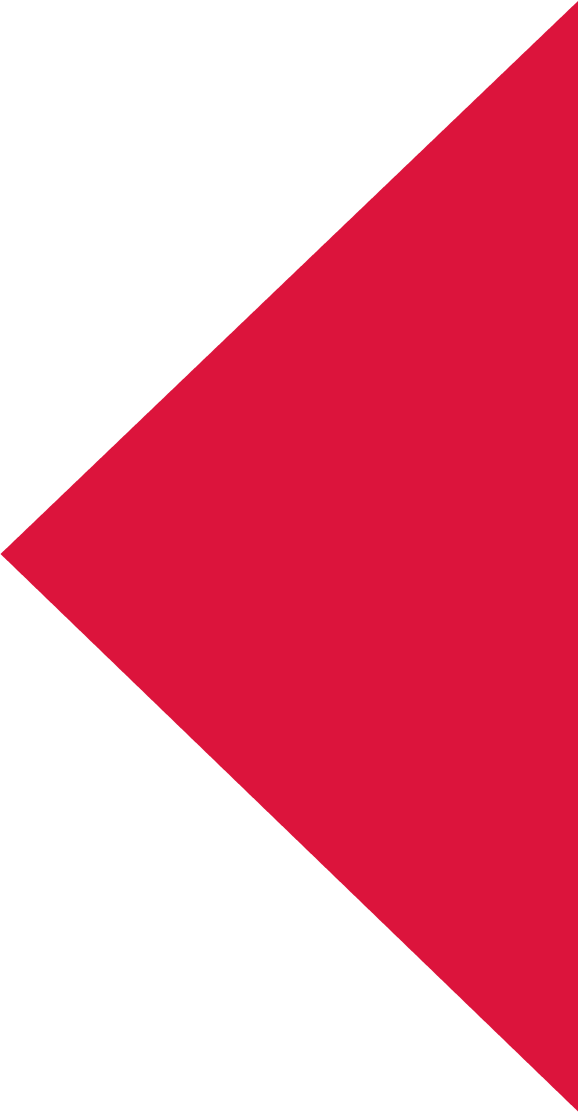
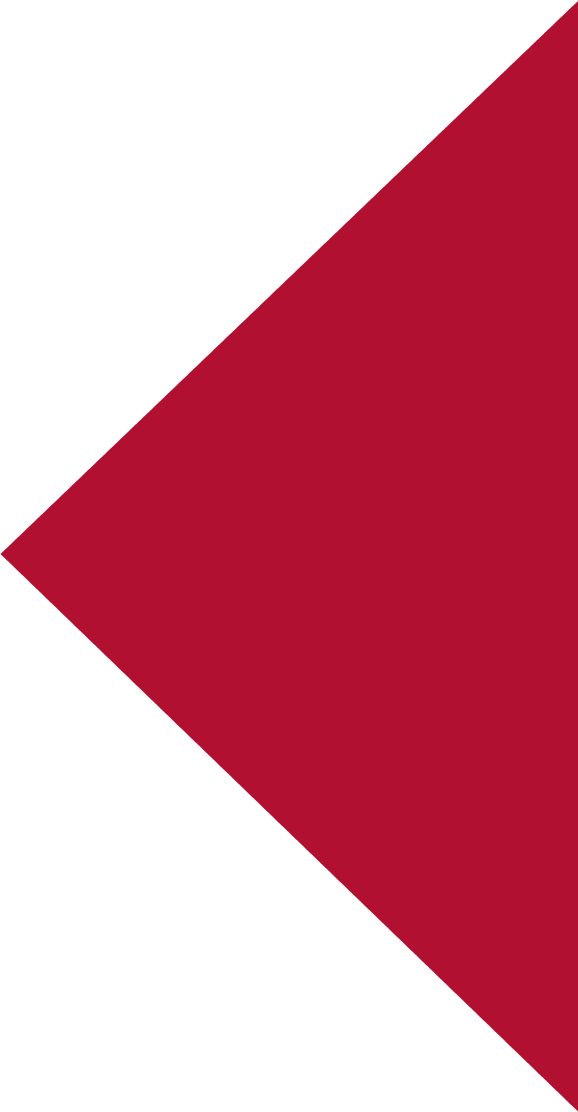
changed to darker red

diff --git a/src/pages/Services/components/ServiceCards.jsx b/src/pages/Services/components/ServiceCards.jsx
@@ -1,0 +1,40 @@
+import React from 'react'
+
+const ServiceCards = () => {
+    return (   
+      <div className="flex flex-col md:flex-row pb-12">
+        <div className="w-full">
+          <div className="services-card1 homepage-card-text lg:h-64">
+            <h2 className="homepage-card-h2">CNC Machining</h2>
+            {/* <h3 className="homepage-card-h3">
+              <span className="homepage-span">60,000+</span> Square feet under one roof
+            </h3> */}
+          </div>
+          <div className="services-card2 homepage-card-text md:border-none lg:h-64">
+            <h2 className="homepage-card-h2">Welding</h2>
+            {/* <h3 className="homepage-card-h3">
+              <span className="homepage-span">52+</span> CNC machines in operation
+            </h3> */}
+          </div>
+        </div>
+        <div className="w-full">
+          <div className="services-card3 homepage-card-text md:border-l-1 md:border-white lg:h-64">
+            <h2 className="homepage-card-h2">Sheet Metal Fabrication</h2>
+            {/* <h3 className="homepage-card-h3">
+              <span className="homepage-span">ASME</span> code stampes{" "}
+              <span className="homepage-span">ASME</span> certified
+            </h3> */}
+          </div>
+          <div className="services-card4 homepage-card-text md:border-l-1 md:border-white lg:h-64">
+            <h2 className="homepage-card-h2">Design & Assemble</h2>
+            {/* <h3 className="homepage-card-h3">
+              <span className="homepage-span">15+</span> years of ISO quality
+              certification
+            </h3> */}
+          </div>
+        </div>
+      </div>
+    );
+  };
+
+export default ServiceCards

diff --git a/src/pages/Home/components/Header.jsx b/src/pages/Home/components/Header.jsx
@@ -11,7 +11,7 @@ const Header = () => {
         <img
           src={heroImage}
           alt="Hero Image"
-          className="w-full h-full object-cover object-left top-0 left-0 z-0"
+          className="w-full h-full object-cover object-left top-0 left-0 z-0 color-red"
         />
       </div>
       <div className="absolute m-auto top-0 bottom-0 right-0 left-0 z-10">
@@ -20,8 +20,8 @@ const Header = () => {
       <div className="container">
         <div className="absolute z-0 h-52 m-auto top-0 bottom-0 right-0 left-0 flex items-center justify-center mx-auto">
           <h1 className="text-3xl sm:text-4xl md:text-5xl lg:text-5xl xl:text-6xl md:w-3/4 lg:w-3/5 w-64 sm:w-3/4 tracking-wider text-white leading-10 md:leading-12 border-y py-7">
-            Building <span className="text-red">better</span> parts, <span className="text-red">better</span> people, for a
-            <span className="text-red"> brighter</span> future
+            Building <span className="text-red font-bold">better</span> parts, <span className="text-red font-bold">better</span> people, for a
+            <span className="text-red font-bold"> brighter</span> future
           </h1>
         </div>
         <div>

diff --git a/src/components/ImageSlider.jsx b/src/components/ImageSlider.jsx
@@ -20,7 +20,7 @@ const ImageSlider = ({ slides }) => {
   }
 
   return (
-    <section className="slider mt-16 mb-24 md:mt-20 md:mb-32 lg:my-36">
+    <section className="slider mt-16 mb-20 md:mt-20 md:mb-32 lg:my-36">
       <FaAngleLeft className="left-arrow text-3xl sm:text-4xl md:text-5xl sm:left-14 md:left-16 lg:left-20 xl:left-32" onClick={prevSlide} />
       <FaAngleRight className="right-arrow text-3xl sm:text-4xl md:text-5xl sm:right-14 md:right-16 lg:right-20" onClick={nextSlide} />
       {SliderData.map((slide, index) => {
@@ -33,7 +33,7 @@ const ImageSlider = ({ slides }) => {
               key={index}
               src={slide.image}
               alt="kenney ind"
-              className="image w-64 h-44 m-auto sm:w-96 sm:h-auto md:w-2/3 lg:w-full"
+              className="image w-full h-44 m-auto sm:w-96 sm:h-auto md:w-2/3 lg:w-full"
             />)}
             
           </div>

diff --git a/src/index.css b/src/index.css
@@ -211,3 +211,45 @@ body {
   background-image: url(./assets/img/kenney2010.png);
 }
 
+/* services page */
+
+.services-card1 {
+  padding: 0;
+  margin: auto;
+  height: 180px;
+  width: 100%;
+  background-color: #B21030;
+  background-size: cover;
+  border-bottom: solid 0.5px #F5F5F5;
+}
+
+.services-card2 {
+  padding: 0;
+  margin: auto;
+  height: 180px;
+  width: 100%;
+  background-color: #B21030;
+  background-size: cover;
+  background-repeat: no-repeat;
+  border-bottom: solid 0.5px #F5F5F5;
+}
+
+.services-card3 {
+  padding: 0;
+  margin: auto;
+  height: 180px;
+  width: 100%;
+  background-color: #B21030;
+  background-size: cover;
+  background-repeat: no-repeat;
+  border-bottom: solid 0.5px #F5F5F5;
+}
+
+.services-card4 {
+  padding: 0;
+  margin: auto;
+  height: 180px;
+  width: 100%;
+  background-color: #B21030;
+  background-size: cover;
+}

diff --git a/src/pages/Services/Index.jsx b/src/pages/Services/Index.jsx
@@ -5,6 +5,7 @@ import { Fade } from "react-awesome-reveal";
 import ServicesHeader from "./components/ServicesHeader";
 import ImageSlider from "../../components/ImageSlider";
 import { SliderData } from "../../components/SliderData";
+import ServiceCards from "./components/ServiceCards";
 
 
 const Services = () => {
@@ -14,6 +15,7 @@ const Services = () => {
       <div className="flex flex-col">
         <Header />
         <ServicesHeader />
+        <ServiceCards />
         <ImageSlider slides={SliderData} />
         <ContactForm />
         <Footer />

diff --git a/src/components/Navbar.jsx b/src/components/Navbar.jsx
@@ -45,7 +45,7 @@ const Navbar = () => {
         <div className="flex items-center justify-between">
           <div className="flex items-center">
             <a href="/" className="">
-              <img className="w-40 md:w-40 lg:w-56 transition duration-300 ease-in hover:opacity-70" src={kenneyLogo} alt="Kenney logo" />
+              <img className="w-40 md:w-40 lg:w-56 transition duration-300 ease-in hover:opacity-7" src={kenneyLogo} alt="Kenney logo" />
             </a>
           </div>
           {/* navlinks */}

diff --git a/tailwind.config.js b/tailwind.config.js
@@ -10,7 +10,7 @@ export default {
           body: ['Montserrat']
         },
         colors: {
-          red: '#DC143C',
+          red: '#B21030',
           blue: '#2B3452',
           white: '#F5F5F5',
           copyright: '#9FA1A1',
